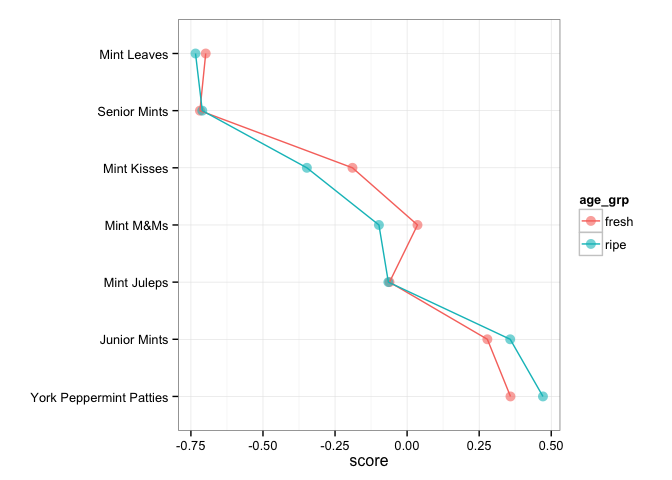
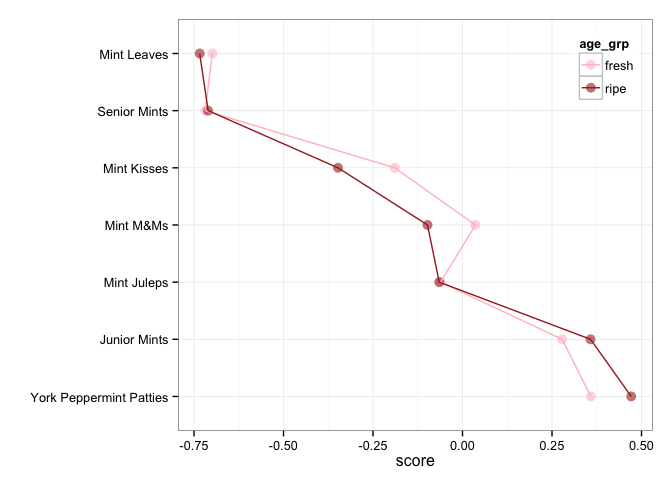
update color on figures

diff --git a/homework/hw07-candy.md b/homework/hw07-candy.md
@@ -836,10 +836,12 @@ d1 %>%
   ggplot(aes(x = candy, y = score, color = more_group, group = more_group)) + 
   geom_point(size = 3.5, alpha = 0.7) + 
   geom_line() + 
+  scale_color_manual(values = c("darkseagreen3", "darkgreen")) +
   xlab("") +
   ylab("level of joy") +
   coord_flip() +
-  theme_bw()
+  theme_bw() +
+  theme(legend.justification=c(1,1), legend.position=c(1,1))
 ```
 
 ![](figure/hw07-q1-mint-candy-scores-1.png) 
@@ -1005,9 +1007,11 @@ d3 %>%
   ggplot(aes(x = candy, y = score, color = age_grp, group = age_grp)) + 
   geom_point(size=3.5, alpha=0.6) + 
   geom_line() + 
+  scale_color_manual(values = c("pink", "brown")) + 
   xlab("") + 
   coord_flip() + 
-  theme_bw()
+  theme_bw() + 
+  theme(legend.justification=c(1,1), legend.position=c(1,1))
 ```
 
 ![](figure/hw07-q3-mint-candy-scores-byage-1.png) 
